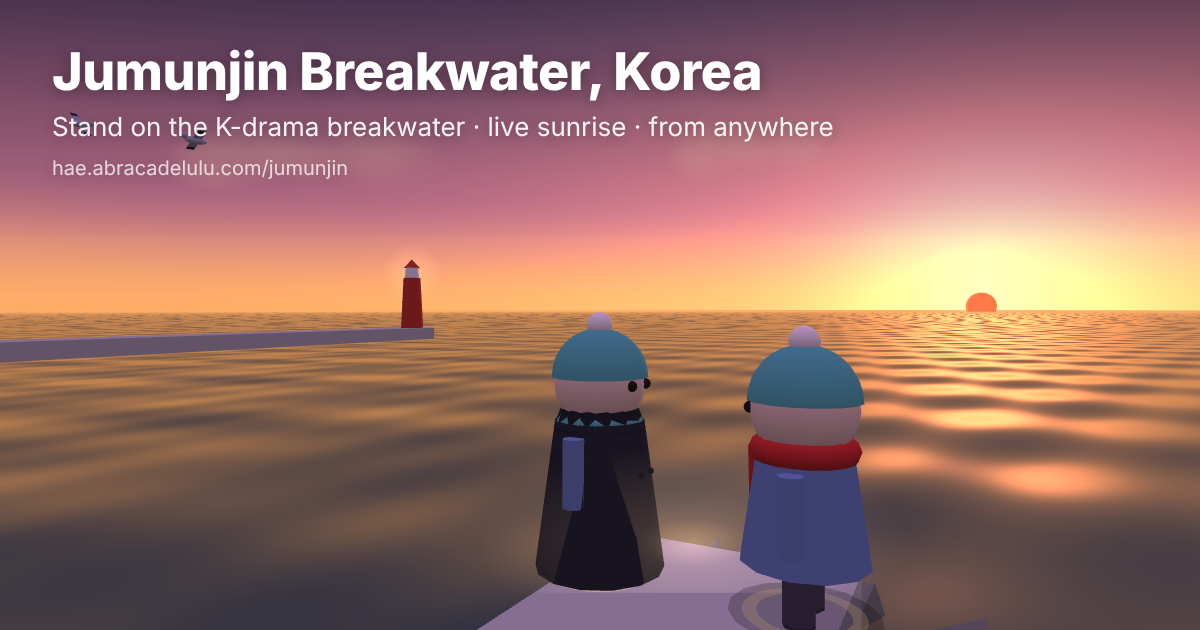
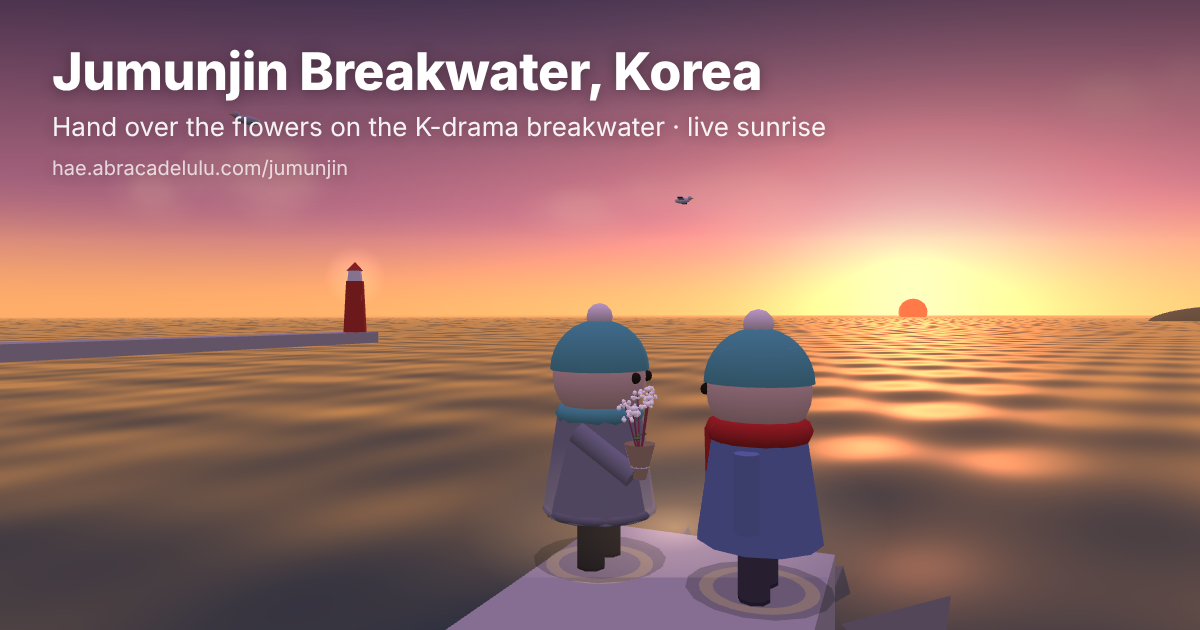
주문진: 메밀꽃 다발(꽃이 위로), 회색 맨투맨·검은 슬랙스, 꽃 건네주기
- 메밀꽃: 붉은 줄기 끝 작은 하얀 꽃송이 + 크라프트지 포장, 팔이 움직여도 꽃이 위로
- 긴 코트 대신 회색 맨투맨·검은 슬랙스 (몸·팔·다리 색이 바뀜)
- 사진 자리에 마주 서고 꽃을 들고 있으면 '꽃 건네주기' 버튼: 서버 확인 후 모두에게 같은 순간 전송,
  건네는 사람은 오른손, 받는 사람은 왼손을 뻗고 손이 맞닿는 순간 반짝임과 함께 꽃이 넘어감
- 사진 자리 간격을 1m로 좁혀 손이 닿게, 영어 미리보기 이미지 새로

Claude-Session: https://claude.ai/code/session_01Xya5pZ6iNnSspWDnsyREZz

diff --git a/client/src/character.ts b/client/src/character.ts
@@ -1,8 +1,9 @@
 import * as THREE from 'three';
+import { mergeGeometries } from 'three/examples/jsm/utils/BufferGeometryUtils.js';
 
 export type CharState = 'idle' | 'walk' | 'sit' | 'lie';
 /** clink = 다른 사람과 커피잔을 부딪치는 동작 (서버가 짝을 지어 줄 때만) */
-export type Emote = 'stretch' | 'wave' | 'cheers' | 'clink' | 'clap' | 'skip' | 'dig';
+export type Emote = 'stretch' | 'wave' | 'cheers' | 'clink' | 'clap' | 'skip' | 'dig' | 'give' | 'take';
 
 export interface Char {
   root: THREE.Group;
@@ -125,7 +126,7 @@ export function disposeChar(c: Char) {
 }
 
 /** 걷기·앉기·기지개·손 흔들기·짠 동작을 부드럽게 보간 */
-const EMOTE_T: Record<Emote, number> = { stretch: 1.8, wave: 1.9, cheers: 2.6, clink: 2.6, clap: 2.2, skip: 1.1, dig: 1.6 };
+const EMOTE_T: Record<Emote, number> = { stretch: 1.8, wave: 1.9, cheers: 2.6, clink: 2.6, clap: 2.2, skip: 1.1, dig: 1.6, give: 2.2, take: 2.2 };
 export function animChar(c: Char, dt: number) {
   c.phase += dt * (c.state === 'walk' ? 9 : 1.6);
   let aL = 0, aR = 0, aRz = 0, aLz = 0, lL = 0, lR = 0, y = 0, rx = 0;
@@ -143,7 +144,8 @@ export function animChar(c: Char, dt: number) {
     y = Math.sin(c.phase) * 0.012;
   }
   // 꽃다발을 들고 있으면 오른팔을 살짝 앞으로
-  if (c.state !== 'walk' && c.state !== 'lie' && c.armR.getObjectByName('flowers')?.visible) aR = 0.7;
+  // 꽃다발을 들고 있으면 오른팔을 앞으로 (꽃은 아래 animChar 끝에서 똑바로 세움)
+  if (c.state !== 'walk' && c.state !== 'lie' && c.armR.getObjectByName('flowers')?.visible) aR = 1.0;
   if (c.emote) {
     c.emoteT += dt;
     const T = EMOTE_T[c.emote] ?? 1.9;
@@ -173,6 +175,8 @@ export function animChar(c: Char, dt: number) {
       const kk = clamp(k * 2.2, 0, 1), pat = Math.abs(Math.sin(c.emoteT * 9)) * 0.35;
       y -= 0.32 * kk; lL = lR = 1.3 * kk; aL = aR = (1.0 + pat) * kk;
     }
+    if (c.emote === 'give') { aR = 1.0 + 0.5 * clamp(k * 2, 0, 1); aRz = -0.15 * clamp(k * 2, 0, 1); }
+    if (c.emote === 'take') { aL = 1.5 * clamp(k * 2, 0, 1); aLz = 0.15 * clamp(k * 2, 0, 1); }
     if (c.emote === 'skip') {
       // 물수제비: 팔을 뒤로 젖혔다가 옆으로 낮게 휙
       aR = u < 0.4 ? -0.9 * (u / 0.4) : -0.9 + 2.3 * clamp((u - 0.4) / 0.25, 0, 1) * (1 - clamp((u - 0.75) / 0.25, 0, 1));
@@ -197,6 +201,11 @@ export function animChar(c: Char, dt: number) {
   c.legL.rotation.x += (lL - c.legL.rotation.x) * e;
   c.legR.rotation.x += (lR - c.legR.rotation.x) * e;
   c.inner.position.y += (y - c.inner.position.y) * e;
+  // 꽃다발은 팔이 어떻게 움직여도 꽃이 위로 오게
+  for (const [arm, name] of [[c.armR, 'flowers'], [c.armL, 'flowersL']] as const) {
+    const f = arm.getObjectByName(name);
+    if (f?.visible) { f.rotation.x = -arm.rotation.x; f.rotation.z = -arm.rotation.z; }
+  }
   // 걸을 때 담요 자락이 살짝 펄럭임
   if (c.blanket.visible) c.blanket.rotation.x = c.state === 'walk' ? 0.08 + Math.sin(c.phase * 2) * 0.04 : 0;
 }
@@ -211,44 +220,77 @@ export function turnTo(c: Char, ang: number, dt: number) {
 }
 
 // ---------- 소품 (주문진 사진 자리용) ----------
-// 1: 긴 코트, 2: 빨간 목도리, 4: 메밀꽃 다발. 이름 없는 소품일 뿐 특정 인물·의상을 그대로 따라 하지 않는다.
-export const OUTFIT = { coat: 1, scarf: 2, flowers: 4 } as const;
+// 1: 회색 맨투맨 + 검은 슬랙스, 2: 빨간 목도리, 4: 메밀꽃 다발.
+// 이름 없는 평범한 옷과 소품만 쓰고, 특정 인물의 얼굴·이름은 쓰지 않는다.
+export const OUTFIT = { sweat: 1, scarf: 2, flowers: 4 } as const;
+
+/** 메밀꽃 다발: 붉은 줄기 끝에 작고 하얀 꽃송이가 몽글몽글, 크라프트지로 감쌈. 꽃이 위로 오게 세운다 */
+function makeBuckwheat() {
+  const g = new THREE.Group();
+  const petals: THREE.BufferGeometry[] = [], stems: THREE.BufferGeometry[] = [], leaves: THREE.BufferGeometry[] = [];
+  const rnd = (a: number, b: number) => a + Math.random() * (b - a);
+  for (let i = 0; i < 9; i++) {
+    const a = (i / 9) * Math.PI * 2 + rnd(-0.3, 0.3), lean = rnd(0.12, 0.32), h = rnd(0.26, 0.4);
+    const tx = Math.sin(lean) * Math.cos(a) * h, tz = Math.sin(lean) * Math.sin(a) * h, ty = 0.06 + Math.cos(lean) * h;
+    const st = new THREE.CylinderGeometry(0.004, 0.006, h, 4); st.translate(0, h / 2, 0);
+    st.rotateZ(-Math.sin(lean) * Math.cos(a)); st.rotateX(Math.sin(lean) * Math.sin(a)); st.translate(0, 0.06, 0);
+    stems.push(st);
+    // 줄기 끝 꽃송이: 아주 작은 꽃 여러 개가 둥글게 모임
+    for (let k = 0; k < 11; k++) {
+      const r = rnd(0.008, 0.016), p = new THREE.SphereGeometry(r, 5, 4);
+      p.translate(tx + rnd(-0.03, 0.03), ty + rnd(-0.02, 0.035), tz + rnd(-0.03, 0.03));
+      petals.push(p);
+    }
+    if (i % 3 === 0) {
+      const lf = new THREE.SphereGeometry(0.03, 6, 4); lf.scale(1, 0.25, 0.7);
+      lf.translate(tx * 0.45, 0.06 + ty * 0.4, tz * 0.45); leaves.push(lf);
+    }
+  }
+  g.add(new THREE.Mesh(mergeGeometries(stems), new THREE.MeshLambertMaterial({ color: 0xa8495b })));
+  g.add(new THREE.Mesh(mergeGeometries(petals), new THREE.MeshLambertMaterial({ color: 0xfbf8f2, emissive: 0x2a2622 })));
+  if (leaves.length) g.add(new THREE.Mesh(mergeGeometries(leaves), new THREE.MeshLambertMaterial({ color: 0x5f8f4e })));
+  const wrap = new THREE.Mesh(new THREE.CylinderGeometry(0.09, 0.035, 0.2, 10, 1, true), new THREE.MeshLambertMaterial({ color: 0xc9ac80, side: THREE.DoubleSide }));
+  wrap.position.y = 0.06; g.add(wrap);
+  const tie = new THREE.Mesh(new THREE.TorusGeometry(0.05, 0.008, 4, 12), new THREE.MeshLambertMaterial({ color: 0xf1ebe0 }));
+  tie.rotation.x = Math.PI / 2; tie.position.y = 0.03; g.add(tie);
+  return g;
+}
+
 export function setOutfit(c: Char, mask: number) {
   let o = c.inner.getObjectByName('outfit') as THREE.Group | undefined;
   if (!o) {
     o = new THREE.Group(); o.name = 'outfit'; c.inner.add(o);
-    const M = (col: number) => new THREE.MeshLambertMaterial({ color: col });
-    // 긴 코트: 몸통보다 살짝 크고 무릎 아래까지
-    const coat = new THREE.Group(); coat.name = 'coat';
-    const body = new THREE.Mesh(new THREE.CylinderGeometry(0.29, 0.42, 0.95, 14, 1, true), new THREE.MeshLambertMaterial({ color: 0x2b2a31, side: THREE.DoubleSide }));
-    body.position.y = 0.46; coat.add(body);
-    const collar = new THREE.Mesh(new THREE.CylinderGeometry(0.25, 0.3, 0.14, 14, 1, true), new THREE.MeshLambertMaterial({ color: 0x232229, side: THREE.DoubleSide }));
-    collar.position.y = 0.95; coat.add(collar);
-    for (const x of [-0.07, 0.07]) { const b = new THREE.Mesh(new THREE.SphereGeometry(0.022, 6, 4), M(0x1a1a1e)); b.position.set(x, 0.62, -0.33); coat.add(b); }
-    o.add(coat);
     // 빨간 목도리: 목에 두르고 한 자락은 가슴 앞으로
     const scarf = new THREE.Group(); scarf.name = 'scarf';
-    const red = M(0xc92a2a);
+    const red = new THREE.MeshLambertMaterial({ color: 0xc92a2a });
     const ring = new THREE.Mesh(new THREE.TorusGeometry(0.23, 0.075, 8, 18), red); ring.rotation.x = Math.PI / 2; ring.position.y = 0.94; scarf.add(ring);
     const tail = new THREE.Mesh(new THREE.BoxGeometry(0.12, 0.42, 0.05), red); tail.position.set(0.1, 0.72, -0.3); tail.rotation.z = 0.08; scarf.add(tail);
     o.add(scarf);
-    // 메밀꽃 다발: 오른손에 (하얀 작은 꽃 + 종이 포장)
-    const fl = new THREE.Group(); fl.name = 'flowers'; fl.position.set(0, -0.44, -0.06);
-    const wrap = new THREE.Mesh(new THREE.ConeGeometry(0.1, 0.26, 10, 1, true), new THREE.MeshLambertMaterial({ color: 0xe9dcc4, side: THREE.DoubleSide }));
-    wrap.rotation.x = Math.PI; wrap.position.y = 0.04; fl.add(wrap);
-    const petal = M(0xfbfaf4), stem = M(0x5f8a4a);
-    for (let i = 0; i < 16; i++) {
-      const a = i * 2.4, r = 0.03 + (i % 5) * 0.014;
-      const f = new THREE.Mesh(new THREE.SphereGeometry(0.03, 6, 4), i % 6 === 0 ? stem : petal);
-      f.position.set(Math.cos(a) * r, 0.2 + (i % 3) * 0.035, Math.sin(a) * r); fl.add(f);
+    // 맨투맨 밑단 시보리
+    const hem = new THREE.Mesh(new THREE.TorusGeometry(0.335, 0.03, 6, 18), new THREE.MeshLambertMaterial({ color: 0x7c7e84 }));
+    hem.name = 'hem'; hem.rotation.x = Math.PI / 2; hem.position.y = 0.34; o.add(hem);
+    // 꽃다발: 오른손(들고 있을 때)과 왼손(받는 순간) 두 군데
+    for (const [arm, name] of [[c.armR, 'flowers'], [c.armL, 'flowersL']] as const) {
+      const f = makeBuckwheat(); f.name = name; f.position.set(0, -0.44, -0.05); f.visible = false; arm.add(f);
     }
-    c.armR.add(fl);
-    fl.rotation.x = Math.PI * 0.78; // 손끝에서 앞쪽 아래로 꽃이 보이게
+    // 원래 옷 색 기억 (맨투맨을 벗으면 되돌림)
+    const firstMesh = (g: THREE.Object3D) => g.children.find(ch => (ch as THREE.Mesh).isMesh) as THREE.Mesh;
+    const body = c.inner.children.find(ch => (ch as THREE.Mesh).isMesh) as THREE.Mesh;
+    o.userData.parts = {
+      top: [body, firstMesh(c.armL), firstMesh(c.armR)].map(m => ({ m, c: (m.material as THREE.MeshLambertMaterial).color.getHex() })),
+      legs: [firstMesh(c.legL), firstMesh(c.legR)].map(m => ({ m, c: (m.material as THREE.MeshLambertMaterial).color.getHex() })),
+    };
   }
-  (o.getObjectByName('coat')!).visible = !!(mask & OUTFIT.coat);
-  (o.getObjectByName('scarf')!).visible = !!(mask & OUTFIT.scarf);
-  const fl = c.armR.getObjectByName('flowers');
-  if (fl) fl.visible = !!(mask & OUTFIT.flowers);
+  const sweat = !!(mask & OUTFIT.sweat);
+  const parts = o.userData.parts as { top: { m: THREE.Mesh; c: number }[]; legs: { m: THREE.Mesh; c: number }[] };
+  // 재질을 따로 복제해서 다른 캐릭터와 색을 공유하지 않게
+  for (const { m, c: orig } of parts.top) { if (!m.userData.own) { m.material = (m.material as THREE.Material).clone(); m.userData.own = true; } (m.material as THREE.MeshLambertMaterial).color.setHex(sweat ? 0x8d9097 : orig); }
+  for (const { m, c: orig } of parts.legs) { if (!m.userData.own) { m.material = (m.material as THREE.Material).clone(); m.userData.own = true; } (m.material as THREE.MeshLambertMaterial).color.setHex(sweat ? 0x1b1b21 : orig); }
+  o.getObjectByName('hem')!.visible = sweat;
+  o.getObjectByName('scarf')!.visible = !!(mask & OUTFIT.scarf);
+  c.armR.getObjectByName('flowers')!.visible = !!(mask & OUTFIT.flowers);
   o.userData.mask = mask;
 }
 export const outfitOf = (c: Char) => ((c.inner.getObjectByName('outfit')?.userData.mask as number) ?? 0);
+/** 받는 순간 왼손에 꽃 보이기 */
+export function showLeftFlowers(c: Char, on: boolean) { const f = c.armL.getObjectByName('flowersL'); if (f) f.visible = on; }

diff --git a/client/src/main.ts b/client/src/main.ts
@@ -2,7 +2,7 @@ import * as THREE from 'three';
 import './style.css';
 import type { PlayerInfo, SandPost, St, Stats } from '../../server/src/protocol';
 import { createSandBoard } from './sand-board';
-import { animChar, disposeChar, faceAngle, makeChar, textSprite, turnTo, type Char, OUTFIT, setOutfit } from './character';
+import { animChar, disposeChar, faceAngle, makeChar, textSprite, turnTo, type Char, OUTFIT, setOutfit, outfitOf, showLeftFlowers } from './character';
 import { createAmbience, fetchWeather, windLabel, type Weather } from './ambience';
 import { initAnalytics, track } from './analytics';
 import { createLanterns } from './lanterns';
@@ -438,6 +438,7 @@ function updateMe(dt: number) {
   const bl = $('blanketBtn'), showBl = mySeat !== null || me.blanket.visible;
   if (bl.hidden === showBl) bl.hidden = !showBl;
   bl.textContent = me.blanket.visible ? T.blanketOff : T.blanketOn;
+  updateGiveBtn();
   $('sitBtn').textContent = mySeat !== null || lying ? T.standUp : near !== null ? (seats[near].kind === 'log' ? T.sitLog : seats[near].kind === 'pier' ? T.sitPier : T.sitDown) : T.findSeat;
 }
 
@@ -547,6 +548,8 @@ function loop(t: number) {
   stones.update(dt);
   castles.update(dt, t);
   jetties.update(t, night);
+  updateHandoff(dt);
+  updateSparkles(dt);
   if (sky.update(dt, t, alt, camera, lying)) showStarWish();
   const shell = shells.update(dt, t, me.root.position);
   if (shell) gotShell(shell.i, shell.kind);
@@ -1295,7 +1298,7 @@ function applyTerrain(p: Place) {
   setTerrain(p.id); pier.setPlace(p.id); jetties.setPlace(p.id);
   $('routeBtn').hidden = p.id !== 'jumunjin';
 }
-const OUTFIT_BTNS: [string, number][] = [['ofCoat', OUTFIT.coat], ['ofScarf', OUTFIT.scarf], ['ofFlowers', OUTFIT.flowers]];
+const OUTFIT_BTNS: [string, number][] = [['ofSweat', OUTFIT.sweat], ['ofScarf', OUTFIT.scarf], ['ofFlowers', OUTFIT.flowers]];
 function renderOutfit() { OUTFIT_BTNS.forEach(([id, bit]) => $(id).setAttribute('aria-pressed', String(!!((store.outfit ?? 0) & bit)))); }
 setOutfit(me, store.outfit ?? 0);
 OUTFIT_BTNS.forEach(([id, bit]) => {
@@ -1310,5 +1313,69 @@ $('outfitBtn').onclick = () => { renderOutfit(); open('outfitSheet'); };
 ($('routeMap') as HTMLAnchorElement).href = 'https://www.google.com/maps/search/?api=1&query=' + encodeURIComponent('도깨비 촬영지 주문진 방사제');
 $('routeBtn').onclick = () => { open('routeSheet'); track('route_opened', { place: place.id }); };
 $('routeMap').addEventListener('click', () => track('route_map', { place: place.id }));
+
+// ================= 꽃다발 건네주기 =================
+// 사진 자리 두 곳에 마주 서 있고 내가 꽃을 들고 있으면 버튼이 켜진다.
+// 누르면 서버가 확인한 뒤 모두에게 같은 순간을 보내고, 두 사람의 손이 맞닿는 순간 꽃이 옮겨 간다.
+let giveTarget: string | null = null, handoff: { a: Char; b: Char; aId: string; bId: string; t: number; swapped: boolean } | null = null;
+function updateGiveBtn() {
+  giveTarget = null;
+  if (hasPhotoSpots() && !handoff && (outfitOf(me) & OUTFIT.flowers) && !lying && mySeat === null) {
+    const p = me.root.position, i = PHOTO_SPOTS.findIndex(sp => Math.hypot(sp.x - p.x, sp.z - p.z) < 0.42);
+    if (i >= 0) {
+      const o = PHOTO_SPOTS[1 - i];
+      for (const [id, r] of remotes) {
+        const q = r.c.root.position;
+        if (Math.hypot(o.x - q.x, o.z - q.z) < 0.5 && !(outfitOf(r.c) & OUTFIT.flowers)) { giveTarget = id; break; }
+      }
+    }
+  }
+  const b = $('giveBtn'), show = !!giveTarget;
+  if (b.hidden === show) b.hidden = !show;
+}
+$('giveBtn').onclick = () => { if (giveTarget && connected) { net.emit('give', giveTarget); track('give_flowers', { place: place.id }); } };
+net.on('give', (from, to) => {
+  const a = charOf(from), b = charOf(to);
+  if (!a || !b) return;
+  a.emote = 'give'; a.emoteT = 0; b.emote = 'take'; b.emoteT = 0;
+  handoff = { a, b, aId: from, bId: to, t: 0, swapped: false };
+  if (from !== myId && to !== myId) ticker(T.giveSeen(nickOf(from), nickOf(to)));
+});
+function updateHandoff(dt: number) {
+  if (!handoff) return;
+  handoff.t += dt;
+  // 팔을 뻗어 손이 맞닿는 때(약 0.9초)에 꽃이 왼손으로 넘어가고, 끝나면 받은 사람 오른손으로
+  if (!handoff.swapped && handoff.t > 0.9) {
+    handoff.swapped = true;
+    setOutfit(handoff.a, outfitOf(handoff.a) & ~OUTFIT.flowers);
+    showLeftFlowers(handoff.b, true);
+    sparkleAt(handoff.a.root.position, handoff.b.root.position);
+  }
+  if (handoff.t > 2.0) {
+    showLeftFlowers(handoff.b, false);
+    setOutfit(handoff.b, outfitOf(handoff.b) | OUTFIT.flowers);
+    if (handoff.aId === myId) { store.outfit = outfitOf(me); save(); toast(T.gave); }
+    if (handoff.bId === myId) { store.outfit = outfitOf(me); save(); toast(T.got); }
+    handoff = null;
+  }
+}
+// 손이 맞닿는 자리에 작은 반짝임
+const sparkles: { s: THREE.Sprite; t: number; v: THREE.Vector3 }[] = [];
+function sparkleAt(a: THREE.Vector3, b: THREE.Vector3) {
+  const mid = a.clone().add(b).multiplyScalar(0.5); mid.y += 0.95;
+  for (let i = 0; i < 14; i++) {
+    const s = new THREE.Sprite(new THREE.SpriteMaterial({ map: GLOW, color: i % 3 ? 0xfff6e0 : 0xffc0cb, blending: THREE.AdditiveBlending, depthWrite: false, transparent: true }));
+    s.position.copy(mid); s.scale.setScalar(0.18); scene.add(s);
+    sparkles.push({ s, t: 0, v: new THREE.Vector3((Math.random() - 0.5) * 0.9, Math.random() * 0.9 + 0.2, (Math.random() - 0.5) * 0.9) });
+  }
+}
+function updateSparkles(dt: number) {
+  for (let i = sparkles.length - 1; i >= 0; i--) {
+    const p = sparkles[i]; p.t += dt;
+    p.s.position.addScaledVector(p.v, dt); p.v.y -= dt * 0.6;
+    p.s.material.opacity = Math.max(0, 1 - p.t / 1.2);
+    if (p.t > 1.2) { scene.remove(p.s); p.s.material.dispose(); sparkles.splice(i, 1); }
+  }
+}
 
 Object.assign(window, { __hae: { shot: (on: boolean) => { shotMode = on; }, view: (d: number, p: number, y: number) => setView(d, p, y), forceStar: () => sky.force(), shellsLeft: () => shells.left, castles: () => castles.count, remotes: () => remotes.size, connected: () => connected, seats: () => seats.map(s => s.occ), ghosts: () => traces.count, pos: me.root.position, today: () => stats?.today[place.id] ?? todayVisitors } });

diff --git a/client/src/i18n.ts b/client/src/i18n.ts
@@ -74,6 +74,9 @@ const ko = {
   castleSlow: '모래를 고르는 중… 잠깐만요',
   castleNoSand: '마른 모래사장 위에서 쌓을 수 있어요',
   castleOffline: '연결된 뒤에 쌓을 수 있어요',
+  gave: '💐 꽃을 건넸어요',
+  got: '💐 꽃을 받았어요',
+  giveSeen: (a: string, b: string) => `💐 ${a}님이 ${b}님에게 꽃을 건넸어요`,
   photoSpot: '📸 사진 자리예요 · 친구가 반대쪽 동그라미에 서면 서로 마주 봐요. 📷로 찍어 보세요',
   // 해돋이 안내
   replayOf: (d: string) => `다시보기 · ${d}`,
@@ -224,6 +227,9 @@ const en: Dict = {
   castleSlow: 'Smoothing the sand… one moment',
   castleNoSand: 'You can build on the dry sand',
   castleOffline: 'You can build once connected',
+  gave: '💐 You gave the flowers',
+  got: '💐 You received the flowers',
+  giveSeen: (a: string, b: string) => `💐 ${a} gave ${b} the flowers`,
   photoSpot: '📸 Photo spot · when a friend stands on the other circle you face each other. Tap 📷',
   replayOf: (d: string) => `Replay · ${d}`,
   soon: 'The sun is about to rise', risen: 'The sun is up',
@@ -335,7 +341,7 @@ const HTML_EN: Record<string, string> = {
   'cheers': 'Cheers ☕',
   'stretch': 'Stretch',
   'cheersTile': 'Cheers', 'actMore': 'Actions', 'actAria': 'More actions',
-  'clap': 'Clap', 'skip': 'Skip stones', 'lie': 'Lie & stargaze', 'castle': 'Sandcastle', 'dex': 'Shells', 'props': 'Props', 'propsTitle': 'Pick your props', 'propsLead': 'Mix and match. Everyone on the beach can see them.', 'coat': 'Long coat', 'redScarf': 'Red scarf', 'flowers': 'Buckwheat bouquet', 'routeBtn': '📍 Visit for real', 'routeTitle': 'Visit the real Jumunjin Breakwater', 'routeLead': 'A small breakwater at Yeongjin Beach in Jumunjin, Gangneung, on Korea\'s east coast. It\'s known as a filming spot of the K-drama &lsquo;Goblin&rsquo; (2016). Free to visit and you can walk right out to the end.', 'route1': '<b>Seoul → Gangneung</b> · KTX-Eum from Seoul or Cheongnyangni Station, about 2 hours', 'route2': '<b>Gangneung Station → breakwater</b> · city bus 300 or 302 toward Jumunjin, or about 20–25 min by taxi', 'route3': '<b>Tip</b> · It faces the East Sea, so go at sunrise to see the same view as this beach', 'routeMap': 'Open in Google Maps', 'routeNote': 'Bus times and stops can change. Check Naver Map or Kakao Map before you go.', 'starWish': '🌠 Shooting star! Make a wish', 'dexNote': 'Look for something sparkling on the wet sand by the water and walk up to it to pick it up. Some shells only wash up on one beach.', 'actTrayAria': 'Things to do while waiting',
+  'clap': 'Clap', 'skip': 'Skip stones', 'lie': 'Lie & stargaze', 'castle': 'Sandcastle', 'dex': 'Shells', 'props': 'Props', 'propsTitle': 'Pick your props', 'propsLead': 'Mix and match. Everyone on the beach can see them.', 'sweat': 'Grey sweatshirt & black slacks', 'giveBtn': '💐 Give the flowers', 'redScarf': 'Red scarf', 'flowers': 'Buckwheat bouquet', 'routeBtn': '📍 Visit for real', 'routeTitle': 'Visit the real Jumunjin Breakwater', 'routeLead': 'A small breakwater at Yeongjin Beach in Jumunjin, Gangneung, on Korea\'s east coast. It\'s known as a filming spot of the K-drama &lsquo;Goblin&rsquo; (2016). Free to visit and you can walk right out to the end.', 'route1': '<b>Seoul → Gangneung</b> · KTX-Eum from Seoul or Cheongnyangni Station, about 2 hours', 'route2': '<b>Gangneung Station → breakwater</b> · city bus 300 or 302 toward Jumunjin, or about 20–25 min by taxi', 'route3': '<b>Tip</b> · It faces the East Sea, so go at sunrise to see the same view as this beach', 'routeMap': 'Open in Google Maps', 'routeNote': 'Bus times and stops can change. Check Naver Map or Kakao Map before you go.', 'starWish': '🌠 Shooting star! Make a wish', 'dexNote': 'Look for something sparkling on the wet sand by the water and walk up to it to pick it up. Some shells only wash up on one beach.', 'actTrayAria': 'Things to do while waiting',
   'sit': 'Sit on cushion',
   'lantern': 'Release lantern',
   'photoAria': 'Take a photo of this view',

diff --git a/client/index.html b/client/index.html
@@ -88,6 +88,7 @@
     <div class="actions pe">
       <button class="act" id="sitBtn" data-i18n="sit">방석에 앉기</button>
       <button class="act" id="blanketBtn" hidden>담요 덮기</button>
+      <button class="act primary give-act" id="giveBtn" hidden data-i18n="giveBtn">💐 꽃 건네주기</button>
       <button class="act route-act" id="routeBtn" hidden data-i18n="routeBtn">📍 실제로 가 보기</button>
       <button class="act sand-act" id="sandBtn" hidden data-i18n="sandOpen">모래 게시판 보기</button>
       <button class="act more" id="actMore" aria-expanded="false" aria-controls="actTray" data-i18n-aria="actAria" aria-label="다른 행동 더 보기">✨ <span data-i18n="actMore">행동</span></button>
@@ -124,7 +125,7 @@
   <h2 id="outfitTitle" data-i18n="propsTitle">소품 고르기</h2>
   <p class="lead" data-i18n="propsLead">겹쳐 입을 수 있어요. 다른 사람에게도 보여요.</p>
   <div class="outfit-grid">
-    <button class="tile" id="ofCoat" aria-pressed="false"><i>🧥</i><span data-i18n="coat">긴 코트</span></button>
+    <button class="tile" id="ofSweat" aria-pressed="false"><i>👕</i><span data-i18n="sweat">회색 맨투맨·검은 슬랙스</span></button>
     <button class="tile" id="ofScarf" aria-pressed="false"><i>🧣</i><span data-i18n="redScarf">빨간 목도리</span></button>
     <button class="tile" id="ofFlowers" aria-pressed="false"><i>💐</i><span data-i18n="flowers">메밀꽃 다발</span></button>
   </div>

diff --git a/server/src/protocol.ts b/server/src/protocol.ts
@@ -25,7 +25,7 @@ export interface PlayerInfo {
   st: St;
   /** 담요를 두르고 있는지 (켜 두는 상태라 나중에 들어온 사람도 볼 수 있게 서버가 기억) */
   blanket?: boolean;
-  /** 소품 비트마스크: 1 긴 코트, 2 빨간 목도리, 4 꽃다발 */
+  /** 소품 비트마스크: 1 회색 맨투맨·검은 슬랙스, 2 빨간 목도리, 4 꽃다발 */
   outfit?: number;
 }
 
@@ -95,6 +95,8 @@ export interface ServerToClient {
   clink: (a: string, b: string) => void;
   blanket: (id: string, on: boolean) => void;
   outfit: (id: string, mask: number) => void;
+  /** 꽃다발 건네주기: from의 꽃이 to에게 간다 (모두가 같은 순간에 봄) */
+  give: (from: string, to: string) => void;
   sandPost: (p: SandPost) => void;
   sandRemove: (id: string) => void;
   castle: (c: Castle) => void;
@@ -115,6 +117,7 @@ export interface ClientToServer {
   stand: () => void;
   blanket: (on: boolean) => void;
   outfit: (mask: number) => void;
+  give: (to: string) => void;
   sandWrite: (text: string, ack: (r: SandWriteResult) => void) => void;
   sandReport: (id: string) => void;
   castle: (x: number, z: number, ack: (r: CastleResult) => void) => void;

diff --git a/server/src/index.ts b/server/src/index.ts
@@ -275,6 +275,18 @@ io.on('connection', (socket: Sock) => {
     reply(true);
   });
 
+  // 꽃다발 건네주기: 들고 있는 사람만, 바로 앞(2m 안)에 있는 사람에게
+  socket.on('give', to => {
+    const c = socket.data.channel, me = c?.players.get(socket.id), other = c?.players.get(String(to));
+    const now = Date.now();
+    if (!c || !me || !other || other.id === me.id || now - socket.data.lastEmote < 1500) return;
+    if (!((me.outfit ?? 0) & 4) || Math.hypot(me.x - other.x, me.z - other.z) > 2) return;
+    socket.data.lastEmote = now;
+    me.outfit = (me.outfit ?? 0) & ~4;
+    other.outfit = (other.outfit ?? 0) | 4;
+    io.to(c.key).emit('give', me.id, other.id);
+  });
+
   socket.on('outfit', mask => {
     const c = socket.data.channel, me = c?.players.get(socket.id);
     if (!c || !me) return;

diff --git a/client/src/beach-extras.ts b/client/src/beach-extras.ts
@@ -52,7 +52,7 @@ const JUMUNJIN_JETTIES: Jetty[] = [
 ];
 export const jetties = () => (terrain === 'jumunjin' ? JUMUNJIN_JETTIES : []);
 /** 사진 자리: 방사제 끝에서 서로 마주 보는 두 점 */
-export const PHOTO_SPOTS = [{ x: 4.35, z: -10.2 }, { x: 5.65, z: -10.2 }];
+export const PHOTO_SPOTS = [{ x: 4.5, z: -10.2 }, { x: 5.5, z: -10.2 }];
 export const hasPhotoSpots = () => terrain === 'jumunjin';
 const pierHere = () => terrain !== 'jumunjin';
 const onJetty = (x: number, z: number) => jetties().find(j => Math.abs(x - j.x) < j.half && z <= j.start && z >= j.end) ?? null;
